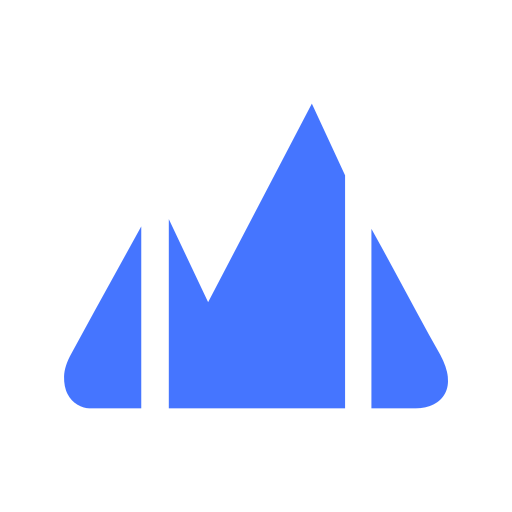
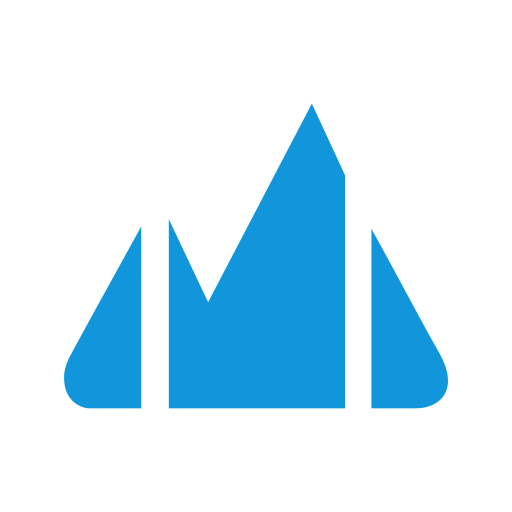
style(brand): 图标改为 #1296db，页脚中间按钮统一为白底圆形

Changed region(s): [[0.3125, 0.1875, 0.6875, 0.8125], [0.125, 0.4375, 0.2812, 0.8125], [0.7188, 0.4375, 0.875, 0.8125]]

diff --git a/src/styles/layout/footer.css b/src/styles/layout/footer.css
@@ -22,15 +22,22 @@
 }
 
 #footer #footer_deal .footer_mini_logo {
-  width: 50px;
-  height: 50px;
-  padding: 0;
+  width: 32px;
+  height: 32px;
+  padding: 4px;
   border: 0;
-  background: transparent;
-  margin: 0 1rem;
-  transition: cubic-bezier(0, 0, 0, 1.29) 0.5s;
+  background: var(--efu-fontcolor);
+  margin: 1rem 27px;
+  transition: 0.3s;
   user-select: none;
-  border-radius: 50px;
+  border-radius: 3rem;
+}
+
+#footer #footer_deal .footer_mini_logo img {
+  display: block;
+  width: 100%;
+  height: 100%;
+  object-fit: contain;
 }
 
 @media screen and (max-width: 768px) {
@@ -40,7 +47,12 @@
 }
 
 #footer #footer_deal .footer_mini_logo:hover {
-  transform: scale(1.2);
+  background: var(--efu-main);
+  transform: scale(1.1);
+}
+
+#footer #footer_deal .footer_mini_logo:hover img {
+  filter: brightness(0) invert(1);
 }
 
 #footer #st-footer {

diff --git a/src/site.config.ts b/src/site.config.ts
@@ -110,6 +110,7 @@ export default defineSolitudeConfig({
     },
     footer: {
       information: {
+        author: '/img/favicon.svg',
         left: [
           {
             name: 'GitHub',
@@ -147,7 +148,7 @@ export default defineSolitudeConfig({
     search: { tags: ['股票', '经济', '日记'], local: { preload: true } },
     pwa: {
       enable: true,
-      theme_color: '#4575ff',
+      theme_color: '#1296db',
       apple_touch_icon: '/img/pwa/apple-touch-icon.png',
     },
     extends: {
